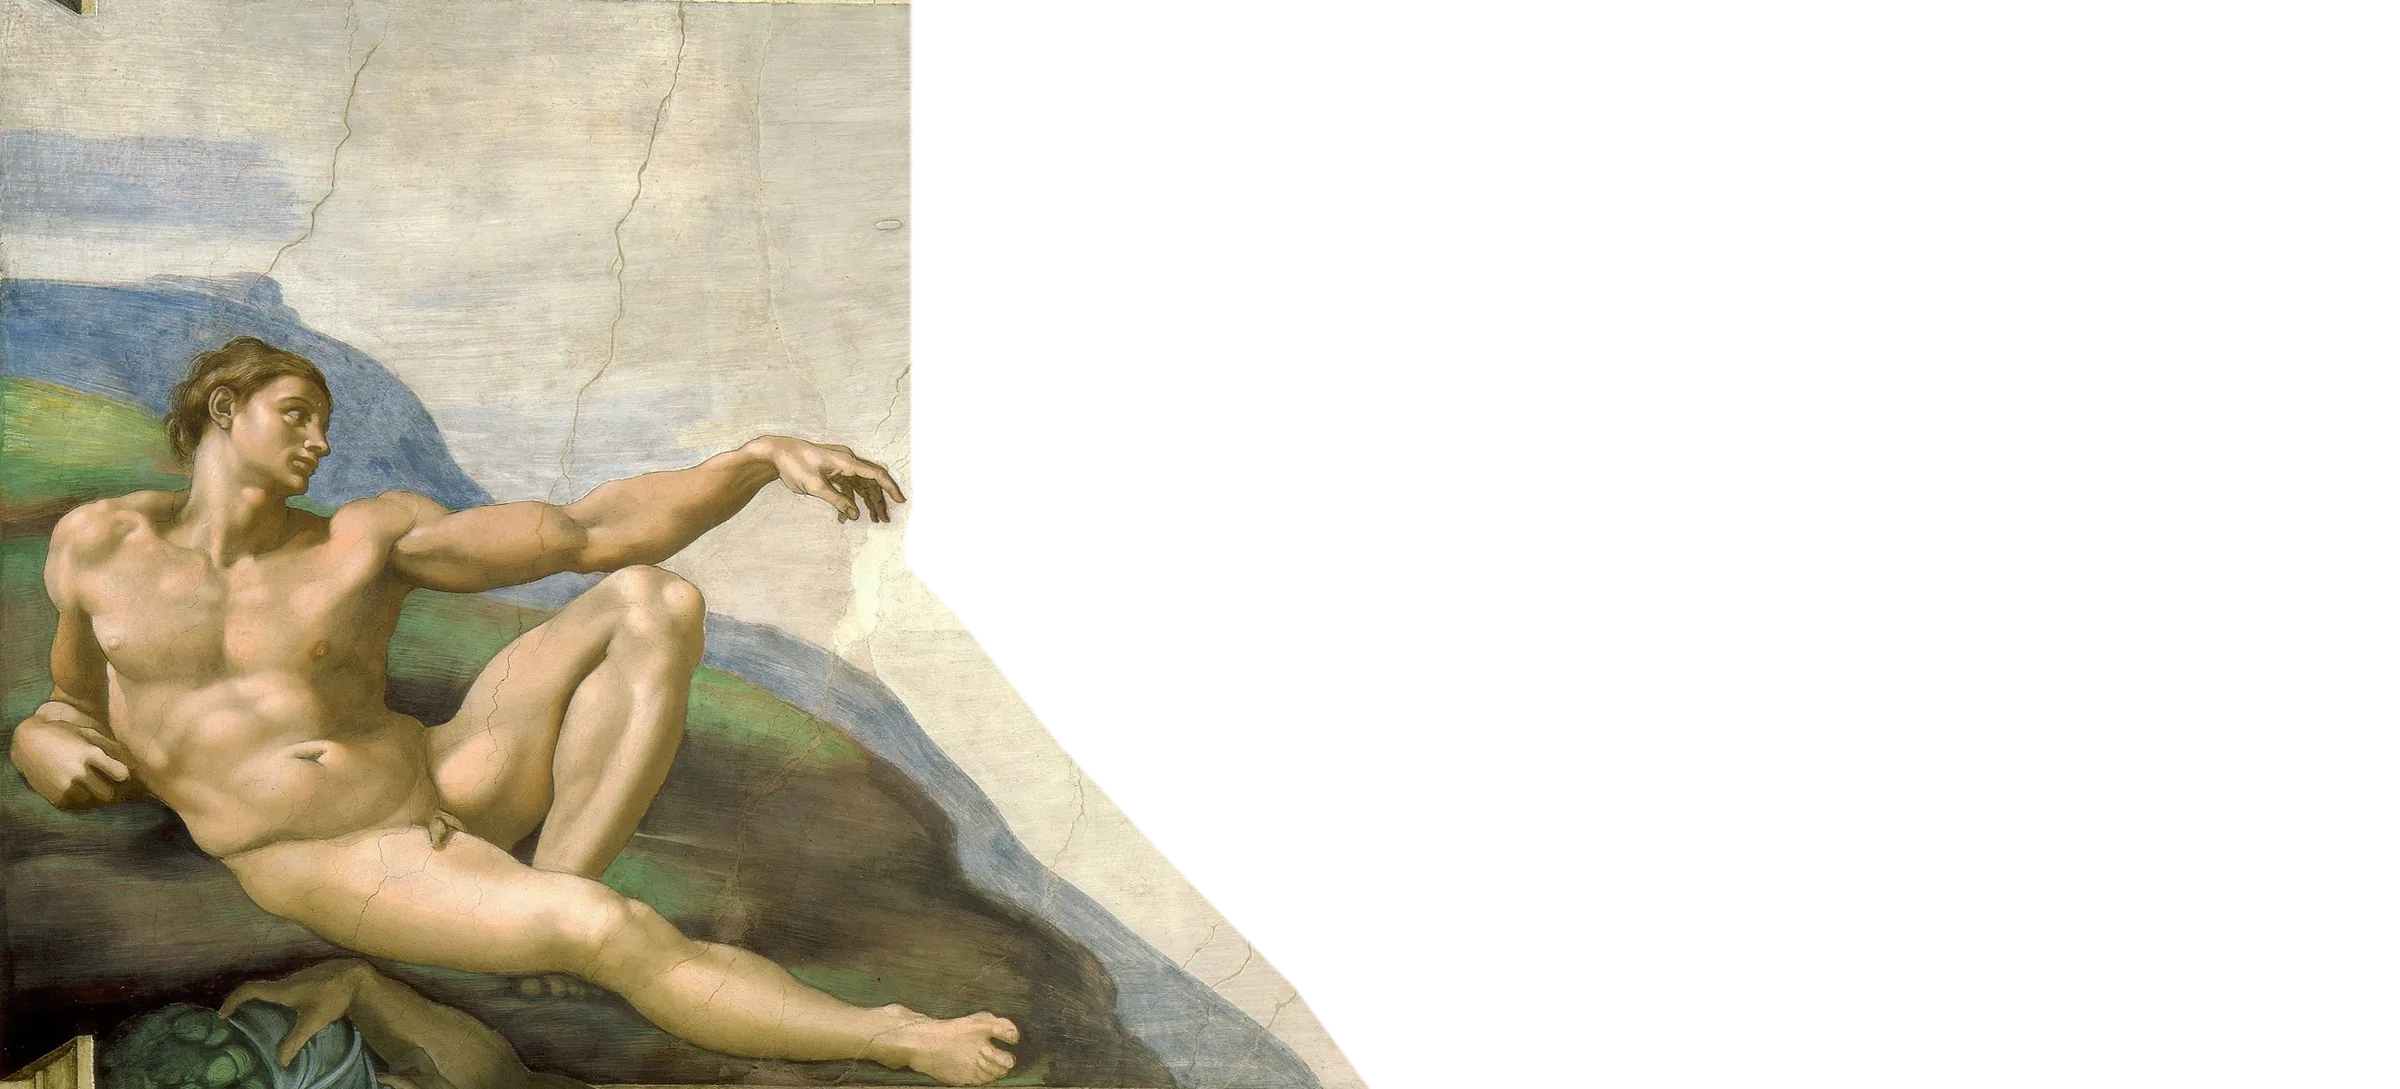
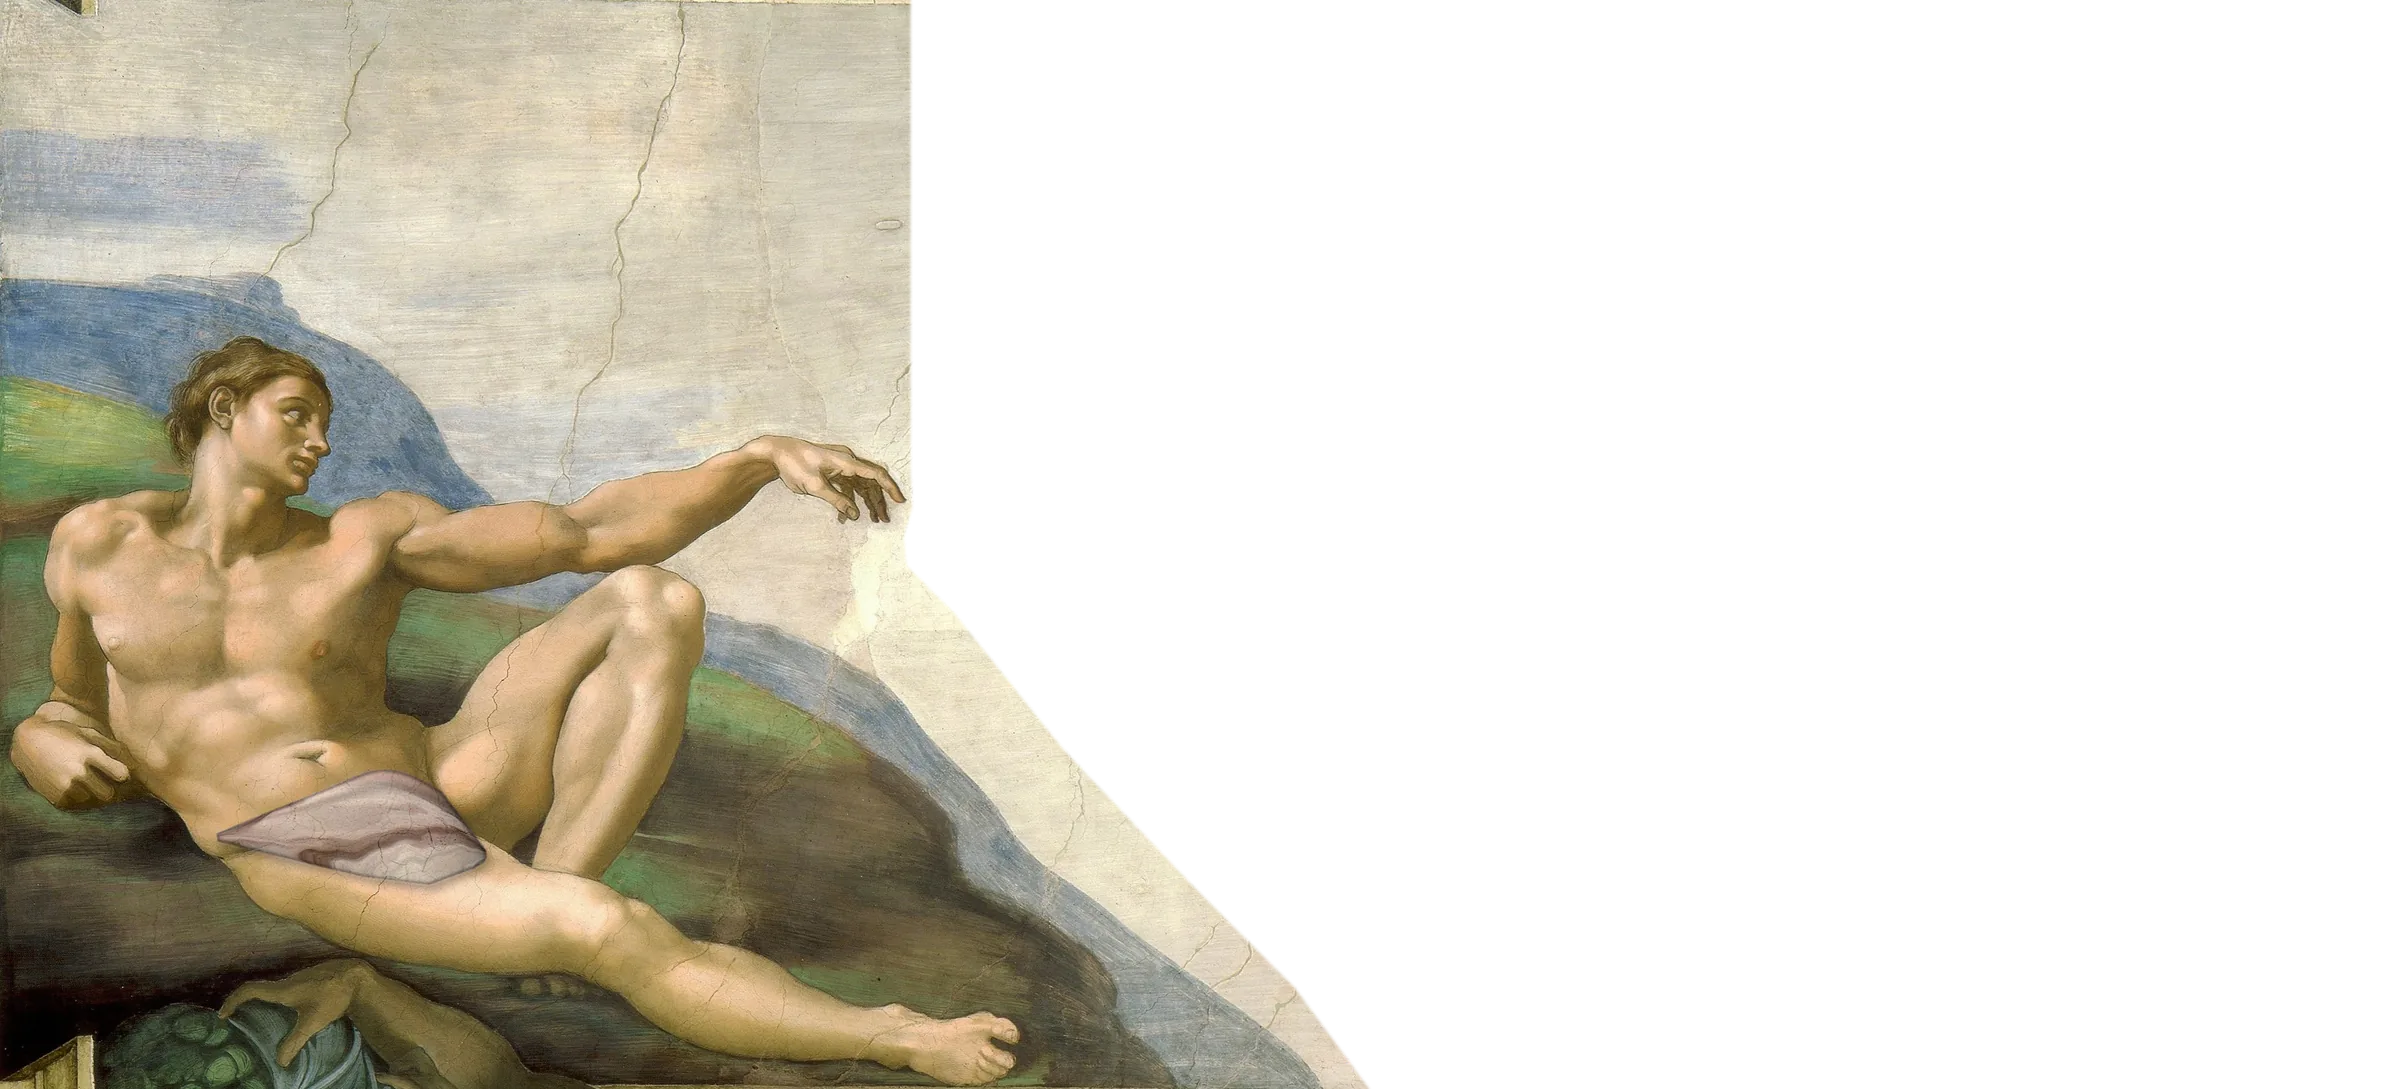
Cover Adam with a braghettone; keep header nav on one line
As Daniele da Volterra did in the Sistine Chapel (1564), Adam now wears a
loincloth painted from a fold of God's own robe, warped to his hips, with
the fresco's contour, cracks and cast shadow so it sits in the plaster.

Changed region(s): [[0.0938, 0.6869, 0.2188, 0.843]]

diff --git a/src/styles/global.css b/src/styles/global.css
@@ -569,6 +569,8 @@ html[data-motion='off'] *::after { animation: none !important; transition: none 
   .motion-toggle { margin-left: auto; }
   .menu-toggle { margin-left: 0; }
 }
+.nav a { white-space: nowrap; }
+@media (max-width: 1240px) { .brand small { display: none; } .header-search input { width: 170px; } }
 @media (max-width: 520px) { .brand small { display: none; } }
 
 /* ---- page transitions (cross-document View Transitions) ------------------
